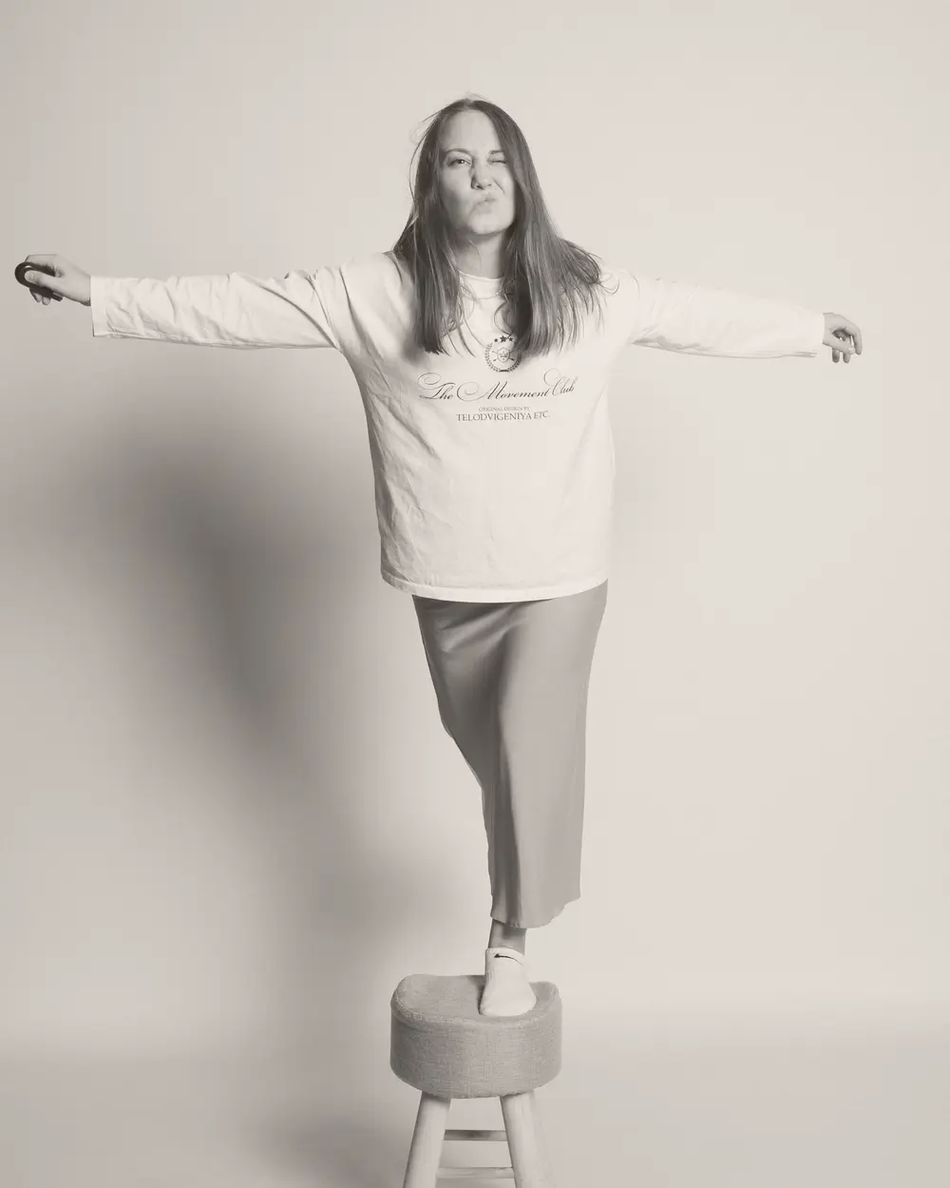
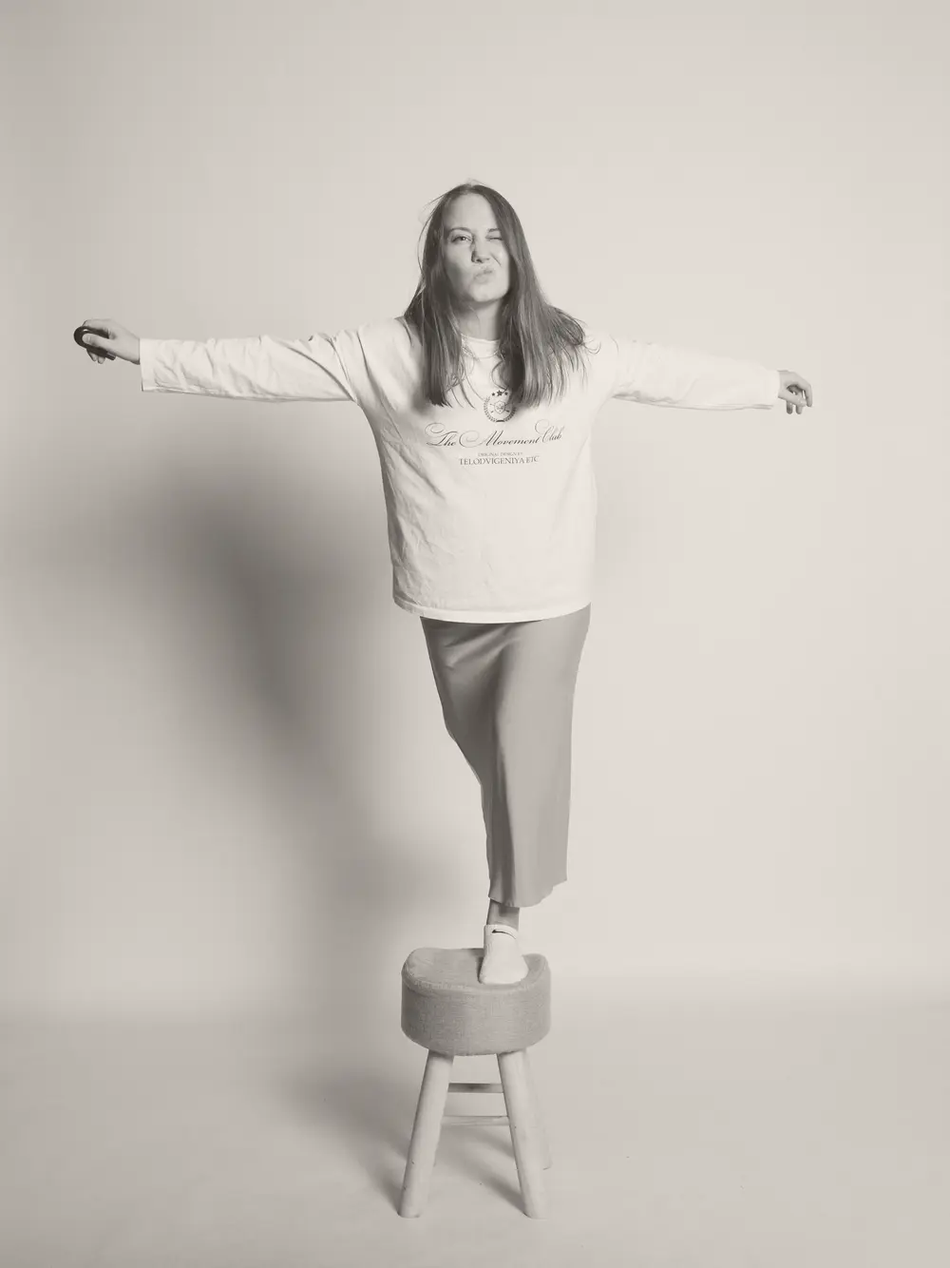
Polish copy on both pages; show balance photo uncropped
- Rephrase awkward or repetitive sentences while keeping the author's voice
- Psychologists page consistently addresses the reader as 'вы'
- Balance photo uses the full frame with plain rounded corners so both
  hands are visible

Claude-Session: https://claude.ai/code/session_0146wk3E6avDQtWMRtqKs2zw

diff --git a/psychologists/index.html b/psychologists/index.html
@@ -65,8 +65,7 @@
             От страха <em>«Как начать?»</em> — до практики, которую вы сможете в&nbsp;себя вместить
           </h1>
           <p class="phero__lead reveal">
-            Если ты психолог — или только думаешь им стать. Я стану вашей опорой,
-            пока вы не обретёте свою. Я готова вести за руку.
+            Для тех, кто уже стал психологом или только думает об этом. Я стану вашей опорой, пока вы не обретёте свою, — и готова вести за руку.
           </p>
           <div class="hero__actions reveal">
             <a class="btn btn--paper-solid" href="#write">Написать мне</a>
@@ -95,7 +94,7 @@
     <section class="section stages-sec" aria-labelledby="stages-title">
       <div class="wrap">
         <div class="section__head">
-          <p class="eyebrow reveal">Если ты психолог</p>
+          <p class="eyebrow reveal">Если вы психолог (или только думаете им стать)</p>
           <h2 class="h2 reveal" id="stages-title">Теория — это одно, <em>а&nbsp;реальные клиенты — совсем другое</em></h2>
         </div>
         <ol class="stages">
@@ -112,7 +111,7 @@
           <li class="reveal">
             <span class="stages__n">03</span>
             <h3>Уже работаете</h3>
-            <p>…но нужна опора и свежий взгляд со стороны: на клиентов, на цену, на себя в профессии.</p>
+            <p>…но чувствуете, что нужны опора и свежий взгляд со стороны: на клиентов, на цену, на себя в профессии.</p>
           </li>
         </ol>
       </div>
@@ -132,19 +131,13 @@
           <p class="eyebrow reveal">Мой путь</p>
           <h2 class="h2 reveal" id="path-title">Я знаю этот путь <em>изнутри</em></h2>
           <p class="reveal">
-            За моими плечами 12 лет обучения, 6 лет частной практики и более
-            3000 часов работы тет-а-тет с клиентами — через мою практику прошло
-            более 100 человек.
+            За моими плечами 12 лет обучения, 6 лет частной практики и более 3000 часов работы с клиентами один на один — это больше 100 человек.
           </p>
           <p class="reveal">
-            Плюс 2 года ведения психологического клуба, через который прошло
-            более 50 специалистов: мы проводили группы, созвоны, встречи,
-            разбирали страхи и открывали собственные кабинеты.
+            Ещё два года я вела психологический клуб — через него прошли более 50 специалистов. Мы проводили группы, созвоны и встречи, разбирали страхи и открывали собственные кабинеты.
           </p>
           <p class="reveal">
-            И, естественно, я 7,5 лет в регулярной личной терапии, супервизии
-            и групповой терапии — это у нас обязательно, мы же работаем собой.
-            И времена сейчас архисложные.
+            И, конечно, уже 7,5 лет я регулярно хожу в личную и групповую терапию и на супервизию. Для нас это обязательно — мы работаем собой. Тем более что времена сейчас архисложные.
           </p>
           <blockquote class="path__quote reveal">
             <p>
@@ -152,8 +145,7 @@
               через хаос в расписании и выгорание. Через чувство <em>«а имею ли я право?»</em>
             </p>
             <p>
-              И теперь у меня есть огромное желание стать вашей опорой, пока вы
-              не обретёте свою.
+              Теперь мне очень хочется стать вашей опорой — пока вы не обретёте свою.
             </p>
           </blockquote>
         </div>
@@ -175,13 +167,9 @@
           <li class="reveal">
             <span class="gives__n">01</span>
             <div>
-              <h3>Поисследуем ваш внутренний контейнер</h3>
+              <h3>Исследуем ваш внутренний контейнер</h3>
               <p>
-                Вмещение. Разберём, сколько человек вы хотите принимать, а сколько
-                реально можете. Какой формат вам ближе — краткосрочная или
-                долгосрочная терапия. Какой вы в отношениях и в личной терапии.
-                Что вы знаете о работе психолога в целом, а что — иллюзия?
-                На эти и не только вопросы вы получите ответы.
+                То есть то, сколько вы способны вместить. Разберём, сколько клиентов вы хотите принимать и сколько реально можете. Какой формат вам ближе — краткосрочная или долгосрочная терапия. Какой вы в отношениях и в личной терапии. Что из того, что вы знаете о работе психолога, — правда, а что — иллюзия. На эти и многие другие вопросы вы получите ответы.
               </p>
             </div>
           </li>
@@ -191,17 +179,13 @@
               <h3>Ответы на абсолютно любые вопросы</h3>
               <ul class="gives__qs">
                 <li>Как начать? Почему не начинаю?</li>
-                <li>Что такое — быть с человеком с глазу на глаз, отдавая ему всё это внимание?</li>
+                <li>Каково это — быть с человеком один на один и отдавать ему всё своё внимание?</li>
                 <li>Сколько я хочу работать — 50 минут или 60? Почему?</li>
-                <li>Какой мой опыт психотерапии и в каком подходе, почему?</li>
+                <li>Какой у меня опыт терапии — в каком подходе и почему?</li>
                 <li>Как открыть свой кабинет?</li>
               </ul>
               <p>
-                Расскажу, что было у меня, с чем сталкивалась и в чём разница между
-                арендой, работой дома, онлайном и другими форматами. Разберём это
-                и многое другое по практике, по сложным клиентам и даже по личным
-                состояниям: мы работаем своей личностью, поэтому важно, что с ней
-                происходит и как это влияет на сессии.
+                Расскажу, как было у меня, с чем я сталкивалась и чем отличаются аренда кабинета, работа из дома, онлайн и другие форматы. Разберём случаи из вашей практики, сложных клиентов и даже ваши личные состояния: мы работаем своей личностью, поэтому важно, что с ней происходит и как это отражается на сессиях.
               </p>
             </div>
           </li>
@@ -210,9 +194,7 @@
             <div>
               <h3>Индивидуальные инструменты</h3>
               <p>
-                Разбираем ваш запрос и то, что за ним стоит. На основе этого я даю
-                задания, практики и техники, подобранные именно под ваш стиль, —
-                если вам это нужно.
+                Разберём ваш запрос и то, что за ним стоит. Если вам это нужно, я подберу задания, практики и техники именно под ваш стиль.
               </p>
             </div>
           </li>
@@ -231,8 +213,7 @@
             <div>
               <h3>Честные границы</h3>
               <p>
-                Я за инициативность. «Тащить» вас не буду — насильственность к себе
-                такое себе. Но внимание к каждой вашей ситуации и детали — обеспечено.
+                Я за инициативность. «Тащить» вас не буду: насильственность к себе — такое себе. Но внимание к каждой вашей ситуации и детали обещаю.
               </p>
             </div>
           </li>
@@ -252,9 +233,7 @@
             <p class="fcard__tag">здесь и сейчас</p>
             <h3>Разовые встречи</h3>
             <p>
-              Если нужно срочно — например, решили, что сегодня-завтра хотите созвон.
-              Разобрать один конкретный кейс, подготовиться к первой сессии или просто
-              выдохнуть и получить поддержку. Напутствие, просто тёплый взгляд.
+              Когда нужно срочно, «здесь и сейчас» — например, хочется созвониться сегодня или завтра. Разобрать конкретный кейс, подготовиться к первой сессии или просто выдохнуть и получить поддержку, напутствие, тёплый взгляд.
             </p>
             <a class="fcard__link" href="#write" data-format="разовая встреча">Хочу разовую встречу →</a>
           </article>
@@ -271,9 +250,7 @@
             <p class="fcard__tag">в вашем ритме</p>
             <h3>Тариф «Растянутый во&nbsp;времени»</h3>
             <p>
-              Не нужно сжимать работу в 30, 40, 60 или 90 дней подряд. Нужно сегодня —
-              занимаемся, нужно неделю отдохнуть — отдыхаем. Это диалог, открытость
-              и вариабельность под ваш ритм и чувства.
+              Не нужно сжимать работу в 30, 40, 60 или 90 дней подряд. Нужно сегодня — занимаемся, нужна неделя отдыха — отдыхаем. Это диалог, открытость и гибкость под ваш ритм и состояние.
             </p>
             <a class="fcard__link" href="#write" data-format="растянутый во времени тариф">Хочу в своём ритме →</a>
           </article>
@@ -282,8 +259,7 @@
           <h3>Любой формат связи</h3>
           <p>
             Личные встречи, онлайн-созвоны, просто звонки или текстовое сопровождение —
-            как вам комфортнее. Если вас «торкнуло» с утра, мы можем разобрать это
-            в течение дня (в рамках выделенного времени).
+            как вам комфортнее. Если вас «торкнуло» с утра, разберём это в течение дня — в рамках выделенного времени.
           </p>
         </div>
       </div>
@@ -298,26 +274,23 @@
           <figure class="outcome__figure reveal">
             <picture>
               <source type="image/webp" srcset="/images/pro-balance-640.webp 640w, /images/pro-balance-1000.webp 1000w, /images/pro-balance-1400.webp 1400w" sizes="(max-width: 860px) 90vw, 36vw" />
-              <img src="/images/pro-balance-1000.jpg" width="1000" height="1250" loading="lazy" alt="Катя балансирует на одной ноге на табурете, раскинув руки" />
+              <img src="/images/pro-balance-1000.jpg" width="1000" height="1333" loading="lazy" alt="Катя балансирует на одной ноге на табурете, раскинув руки" />
             </picture>
             <figcaption>Опора на себя — это тоже навык</figcaption>
           </figure>
         </div>
         <div>
           <ul class="outcomes">
-            <li class="reveal">Вы узнаете, как составлять контракт перед началом работы с клиентом и как брать предоплату.</li>
-            <li class="reveal">Разберётесь, как работать с самоценностью и ценой.</li>
+            <li class="reveal">Узнаете, как составить контракт с клиентом перед началом работы и как брать предоплату.</li>
+            <li class="reveal">Научитесь работать с самоценностью и ценой на свои услуги.</li>
             <li class="reveal">Поймёте, кто «ваш клиент».</li>
             <li class="reveal">Начнёте практиковать не из тревоги, а из опоры на себя.</li>
             <li class="reveal">
-              Будете знать, что рядом идёт человек, который точно за вас и через многое
-              уже проходил. Кто поддержит на любом — даже самом вроде как странном, но
-              важном — этапе, обсудит самые непонятные вопросы и вместе с вами решит
-              трудности, которые возникают по ситуации.
+              Будете знать, что рядом идёт человек, который точно за вас и через многое уже прошёл. Который поддержит на любом этапе — даже если он кажется странным, — обсудит самые непонятные вопросы и поможет справиться с трудностями по ходу дела.
             </li>
           </ul>
           <p class="outcome__note reveal">
-            Опора особенно в самом начале так важна и необходима — я это сама знаю как никто другой.
+            Опора особенно важна в самом начале — я знаю это как никто другой.
           </p>
         </div>
       </div>
@@ -393,16 +366,12 @@
           <p class="eyebrow eyebrow--light reveal">Не знаете, что выбрать?</p>
           <h2 class="h2 reveal" id="write-title">Это нормально — <em>начнём с пары слов</em></h2>
           <p class="reveal">
-            Если вы чувствуете, что вам нужна помощь, но не можете сформулировать
-            запрос, — напишите мне пару слов о своей ситуации, и мы вместе найдём
-            тот формат, который подойдёт именно вам.
+            Если чувствуете, что нужна помощь, но не можете сформулировать запрос, — напишите пару слов о своей ситуации. Вместе подберём формат, который подойдёт именно вам.
           </p>
           <blockquote class="goal reveal">
             <span>Моя главная цель</span>
             <p>
-              Дать вам то, чего у меня самой не было тогда, при выпуске из вуза.
-              Я готова идти рука об руку с теми, кто боится сделать первый шаг,
-              и с теми, кто хочет вывести свою практику на новый уровень.
+              Дать вам то, чего не было у меня самой, когда я выпускалась из вуза. Я готова идти рука об руку и с теми, кто боится сделать первый шаг, и с теми, кто хочет вывести практику на новый уровень.
             </p>
           </blockquote>
           <ul class="contact__links reveal">

diff --git a/index.html b/index.html
@@ -80,9 +80,7 @@
             Место, где можно <em>не&nbsp;держать лицо</em>
           </h1>
           <p class="hero__lead reveal">
-            Помогаю замечать, что с вами происходит на самом деле, —
-            и возвращать себе выбор: в отношениях, в работе, в том, как вы
-            обходитесь с собой. Онлайн и очно в Москве.
+            Помогаю замечать, что на самом деле с вами происходит, и возвращать себе выбор — в отношениях, в работе и в том, как вы относитесь к себе. Онлайн и очно в Москве.
           </p>
           <div class="hero__actions reveal">
             <a class="btn btn--ink" href="#contact">Записаться на встречу</a>
@@ -117,8 +115,7 @@
           <p class="eyebrow reveal">С чем приходят</p>
           <h2 class="h2 reveal" id="requests-title">Если вы узнаёте себя<br /> <em>хотя бы в одной фразе</em></h2>
           <p class="section__lead reveal">
-            Не обязательно точно формулировать запрос — достаточно того, что
-            «что-то не так». Разбираться, что именно, мы будем вместе.
+            Не нужно точно формулировать запрос — достаточно ощущения, что «что-то не так». Что именно — разберёмся вместе.
           </p>
         </div>
 
@@ -168,7 +165,7 @@
             <li class="reveal"><span>01</span><div><h3>Здесь и сейчас</h3><p>Прошлое важно настолько, насколько оно живёт в вас сегодня. Работаем с тем, что происходит в этот момент.</p></div></li>
             <li class="reveal"><span>02</span><div><h3>Осознавание</h3><p>Учимся замечать чувства, телесные сигналы и желания — раньше, чем они превратятся в симптом.</p></div></li>
             <li class="reveal"><span>03</span><div><h3>Контакт</h3><p>Отношения с терапевтом — безопасное место, чтобы попробовать быть собой и посмотреть, что из этого выйдет.</p></div></li>
-            <li class="reveal"><span>04</span><div><h3>Выбор</h3><p>Не «исправить себя», а увидеть, где вы на самом деле выбираете, — и вернуть себе это право.</p></div></li>
+            <li class="reveal"><span>04</span><div><h3>Выбор</h3><p>Не «исправить себя», а увидеть, где у вас на самом деле есть выбор, — и начать им пользоваться.</p></div></li>
           </ul>
         </div>
       </div>
@@ -195,8 +192,7 @@
             Я гештальт-терапевт и работаю со взрослыми людьми, которые устали
             справляться в одиночку. Мне важно, чтобы в терапии было не страшно
             и не стыдно: можно плакать, злиться, молчать, смеяться и говорить
-            о «глупостях» — всё это имеет значение. А ещё не забывать про юмор:
-            с ним же легче, согласитесь?
+            о «глупостях» — всё это имеет значение. И не забывать про юмор: с ним всё-таки легче.
           </p>
           <p class="reveal">
             Я не буду давать готовых ответов и рассказывать, как правильно жить.
@@ -208,22 +204,17 @@
           <div class="about__life reveal">
             <h3>Вне кабинета</h3>
             <p>
-              Я замужем за айтишником, поэтому сайт получился крышесносным…
-              согласитесь?
+              Я замужем за айтишником — поэтому и сайт получился крышесносным… согласитесь?
             </p>
             <p>
-              А вообще я просто живой человек со своими интересами и мыслями.
-              Уже 25 лет (с перерывами) я танцую бальные танцы, да и вообще обожаю
-              спорт — он в моей жизни просто везде, я много за чем слежу и делаю
-              это с большой страстью. А ещё обожаю сериалы: я настоящая киноманка.
+              А вообще я обычный живой человек со своими интересами и мыслями. Уже 25 лет (с перерывами) танцую бальные танцы и в целом обожаю спорт: он в моей жизни буквально везде, я слежу за многим — и всегда со страстью. А ещё я настоящая киноманка и очень люблю сериалы.
             </p>
             <p>
-              Пишу обо всём этом в <a href="https://www.threads.com/@ikaateee" target="_blank" rel="noopener">Threads</a>*,
-              где разбираю кино, спорт и жизнь через грани психики.
+              Обо всём этом пишу в <a href="https://www.threads.com/@ikaateee" target="_blank" rel="noopener">Threads</a>*:
+              разбираю кино, спорт и жизнь через призму психики.
             </p>
             <p>
-              Сейчас, кстати, готовлюсь вернуться на турниры — и уже болею за саму
-              себя! Но дико боюсь, посмотрим, что из этого выйдет..)
+              Сейчас, кстати, готовлюсь вернуться на турниры — и уже болею за саму себя! Хотя дико боюсь: посмотрим, что из этого выйдет..)
             </p>
           </div>
 
@@ -309,13 +300,13 @@
         <div class="process__body">
           <div class="section__head">
             <p class="eyebrow reveal">Как это происходит</p>
-            <h2 class="h2 reveal" id="process-title">Четыре шага, <em>и ни одного обязательного</em></h2>
+            <h2 class="h2 reveal" id="process-title">Четыре шага — <em>в вашем темпе</em></h2>
           </div>
           <ol class="steps">
-            <li class="reveal"><span class="steps__n">1</span><h3>Вы пишете</h3><p>В Telegram — пару слов о себе и удобном формате. Можно без подробностей.</p></li>
-            <li class="reveal"><span class="steps__n">2</span><h3>Знакомимся</h3><p>На первой встрече говорим о том, что привело, и проверяем, комфортно ли вам со мной.</p></li>
+            <li class="reveal"><span class="steps__n">1</span><h3>Вы пишете</h3><p>В Telegram или VK — пару слов о себе и об удобном формате. Можно без подробностей.</p></li>
+            <li class="reveal"><span class="steps__n">2</span><h3>Знакомимся</h3><p>На первой встрече говорим о том, что вас привело, и смотрим, комфортно ли вам со мной.</p></li>
             <li class="reveal"><span class="steps__n">3</span><h3>Работаем</h3><p>Обычно встречаемся раз в неделю в одно и то же время — регулярность создаёт опору.</p></li>
-            <li class="reveal"><span class="steps__n">4</span><h3>Завершаем</h3><p>Когда запрос решён, мы бережно подводим итоги. Терапия тоже — гештальт, и его важно закрыть.</p></li>
+            <li class="reveal"><span class="steps__n">4</span><h3>Завершаем</h3><p>Когда запрос решён, мы бережно подводим итоги. Терапия — тоже гештальт, и его важно завершить.</p></li>
           </ol>
         </div>
       </div>
@@ -362,9 +353,7 @@
           <svg viewBox="0 0 32 32" aria-hidden="true"><path d="M9 4h10l6 6v18H9z M19 4v6h6 M13 16h8 M13 20h8 M13 24h5" /></svg>
           <p>
             <b>Перед началом работы я пришлю вам правила терапии.</b>
-            В них простыми словами описано, как устроен процесс психотерапии: встречи, переносы, оплата, наши границы —
-            чтобы вам было легче и понятнее. Если всё подходит — начинаем работать. Хотите прочитать заранее —
-            напишите в <a href="https://t.me/ikaateee" target="_blank" rel="noopener">Telegram</a>
+            В них простыми словами описано, как устроена психотерапия: встречи, переносы, оплата, наши границы. Так вам будет легче и понятнее. Если всё подходит — начинаем. Хотите прочитать заранее — напишите мне в <a href="https://t.me/ikaateee" target="_blank" rel="noopener">Telegram</a>
             или <a href="https://vk.ru/ikaateee" target="_blank" rel="noopener">VK</a>.
           </p>
         </div>
@@ -394,19 +383,19 @@
           </details>
           <details class="reveal">
             <summary>Что, если мне не подойдёт?</summary>
-            <p>Так бывает, и это нормально. Скажите об этом — мы обсудим, что не так. Если поймём, что вам лучше к другому специалисту, я помогу с ориентирами.</p>
+            <p>Так бывает, и это нормально. Скажите об этом прямо — обсудим, что не так. А если поймём, что вам лучше подойдёт другой специалист, подскажу, к кому обратиться.</p>
           </details>
           <details class="reveal">
             <summary>Это конфиденциально?</summary>
-            <p>Да. Всё, что вы рассказываете, остаётся между нами. Исключение — только ситуации прямой угрозы жизни, это обсуждается заранее.</p>
+            <p>Да. Всё, что вы рассказываете, остаётся между нами. Исключение — ситуации прямой угрозы жизни; об этом мы договариваемся заранее.</p>
           </details>
           <details class="reveal">
-            <summary>Онлайн-терапия так же работает, как очная?</summary>
-            <p>Да. Для большинства запросов — тревога, депрессия, ПТСР и последствия травм, расстройства пищевого поведения, ОКР, панические атаки, зависимости (в ремиссии) и другие — онлайн-формат в виде видеозвонков по эффективности сопоставим с очной работой. Это подтверждают крупные международные исследования. Главное — обеспечить себе безопасное и тихое место на время сессии, где вас не отвлекут.</p>
+            <summary>Онлайн-терапия работает так же, как очная?</summary>
+            <p>Да. Для большинства запросов — тревога, депрессия, ПТСР и последствия травм, расстройства пищевого поведения, ОКР, панические атаки, зависимости (в ремиссии) и другие — терапия по видеосвязи по эффективности сопоставима с очной. Это подтверждают крупные международные исследования. Главное — найти на время сессии безопасное и тихое место, где вас не отвлекут.</p>
           </details>
           <details class="reveal">
             <summary>Вы работаете со спортсменами?</summary>
-            <p>Да, и очень это люблю. Я сама много лет в бальных танцах и знаю изнутри, что такое режим тренировок, выгорание и страх ошибки на старте.</p>
+            <p>Да, и очень это люблю. Я сама 25 лет в бальных танцах и знаю изнутри, что такое режим тренировок, выгорание и страх ошибки на старте.</p>
           </details>
         </div>
       </div>
@@ -418,10 +407,9 @@
         <div class="contact__intro">
           <p class="eyebrow eyebrow--light reveal">Запись</p>
           <h2 class="h2 reveal" id="contact-title">Первый шаг — <em>самый&nbsp;сложный</em></h2>
-          <p class="contact__lead reveal">Я тоже это знаю. Но он такой важный и смелый.</p>
+          <p class="contact__lead reveal">Я знаю это по себе. Но он такой важный и смелый.</p>
           <p class="reveal">
-            Напишите мне в Telegram или VK. Если не знаете, с чего начать, — соберите
-            сообщение здесь: я получу всё нужное, а вам не придётся подбирать слова.
+            Напишите мне в Telegram или VK. Не знаете, с чего начать? Соберите сообщение здесь: я получу всё, что нужно, а вам не придётся подбирать слова.
           </p>
           <ul class="contact__links reveal">
             <li><a href="https://t.me/ikaateee" target="_blank" rel="noopener"><span>Telegram</span><b>@ikaateee</b></a></li>

diff --git a/src/style.css b/src/style.css
@@ -542,7 +542,7 @@ ol, ul { padding: 0; list-style: none; }
 .outcome { background: var(--paper); }
 .outcome__grid { display: grid; grid-template-columns: minmax(0, 1fr) minmax(0, 1fr); gap: clamp(40px, 7vw, 120px); align-items: start; }
 .outcome__figure { margin-top: 40px; max-width: 420px; }
-.outcome__figure picture { display: block; border-radius: 220px 220px 8px 8px; overflow: hidden; aspect-ratio: 4 / 5; }
+.outcome__figure picture { display: block; border-radius: 12px; overflow: hidden; aspect-ratio: 3 / 4; }
 .outcome__figure img { width: 100%; height: 100%; object-fit: cover; }
 .outcome__figure figcaption { margin-top: 16px; font-family: var(--serif); font-style: italic; font-size: 20px; color: var(--ink-2); }
 .outcomes { border-top: 1px solid var(--line); }
